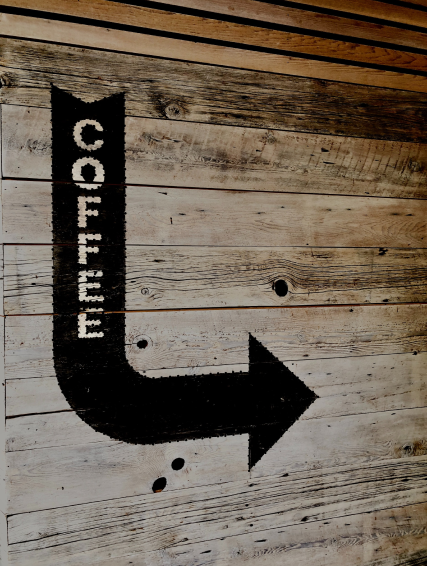
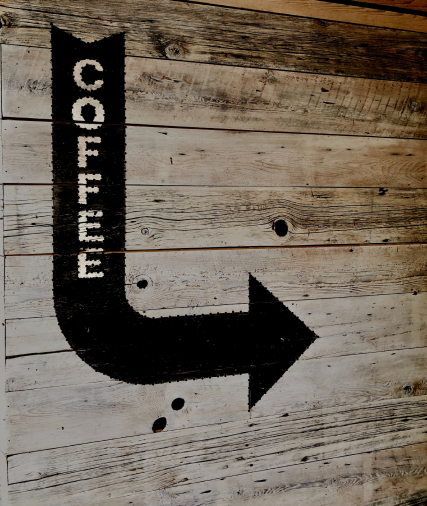
adjust polygon degree

diff --git a/styles/_season.scss b/styles/_season.scss
@@ -197,24 +197,26 @@
 
 .ed-index-img {
   margin-top: 4rem;
+  height: 900px;
   // width: 100%;
   @media screen and (max-width: $lg) {
     margin-top: 2rem;
     padding-inline: 20px;
     width: 340px;
+    height: 430px;
   }
 }
 .arched-image {
   width: 100%;
-  height: 900px;
+  height: 770px;
   background-repeat: no-repeat;
   background-size: cover;
   background-position: center;
-  clip-path: polygon(0% 0%, 100% 0%, 100% 100%, 20% 100%);
+  clip-path: polygon(0% 0%, 100% 0%, 100% 90%, 20% 100%);
   overflow: hidden;
   @media screen and (max-width: $lg) {
-    height: 424px;
-    clip-path: polygon(0% 0%, 100% 0%, 100% 100%, 30% 100%);
+    height: 440px;
+    clip-path: polygon(0% 0%, 100% 0%, 100% 79%, 30% 90%);
   }
 }
 
